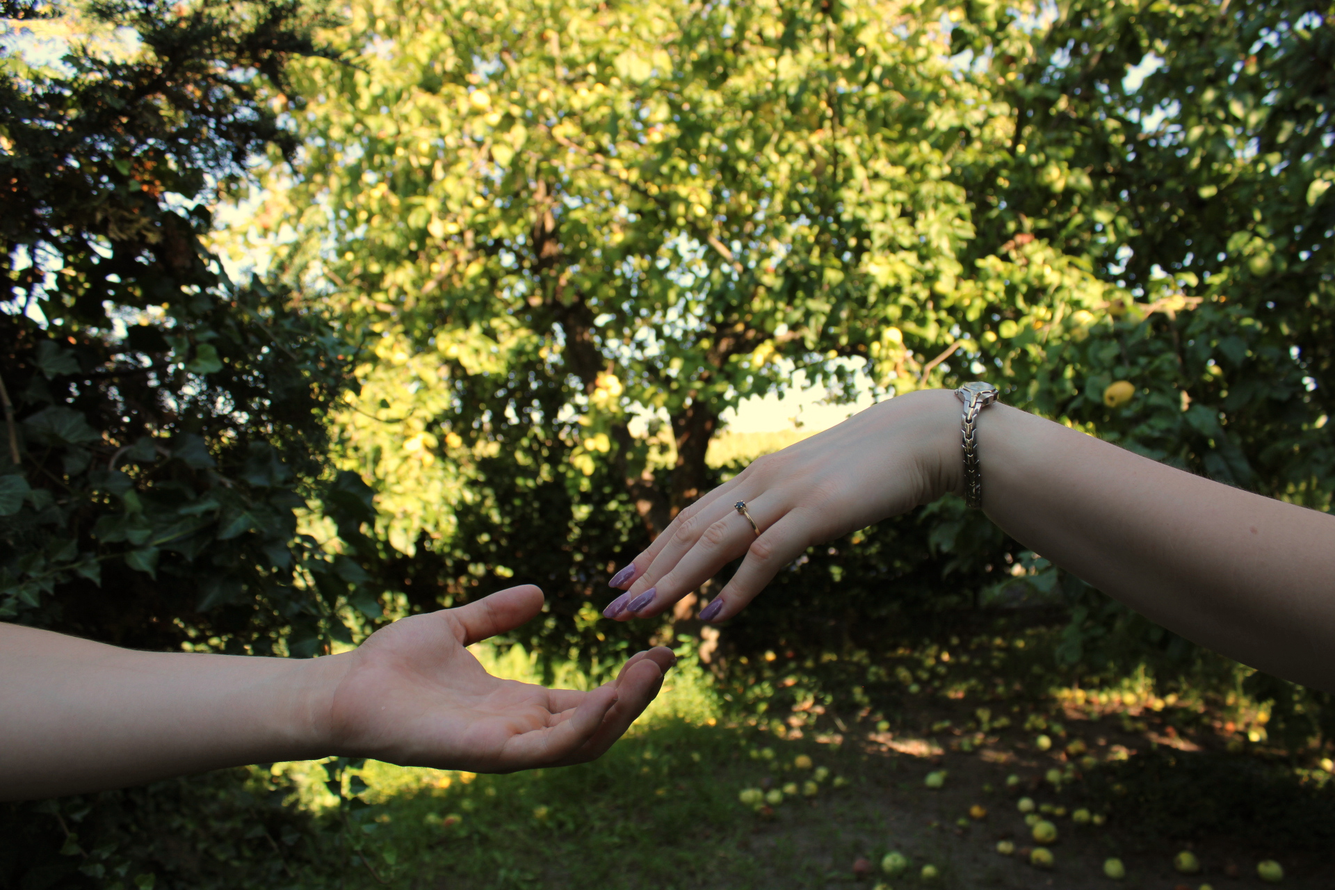
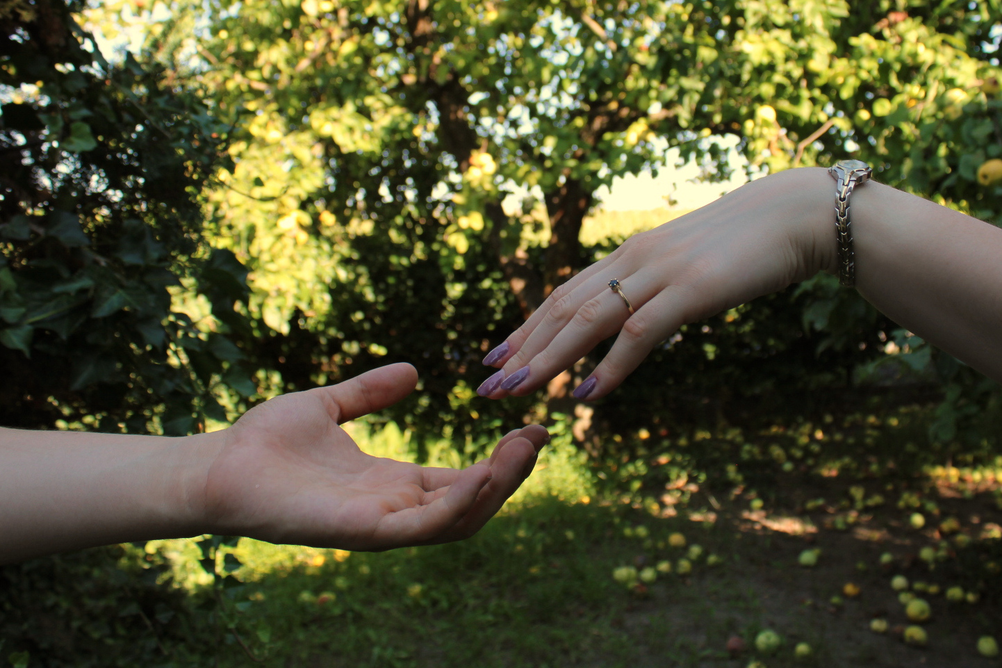
image fix

diff --git a/src/components/BackgroundRotatingImages.vue b/src/components/BackgroundRotatingImages.vue
@@ -69,7 +69,7 @@ async function imagesChangeCorutine()
 
 .current-bg, .next-bg {
   position: fixed;
-  top: 0;
+  top: -200px;
   min-width: 100%;
   min-height: 100%;
   overflow: hidden;
